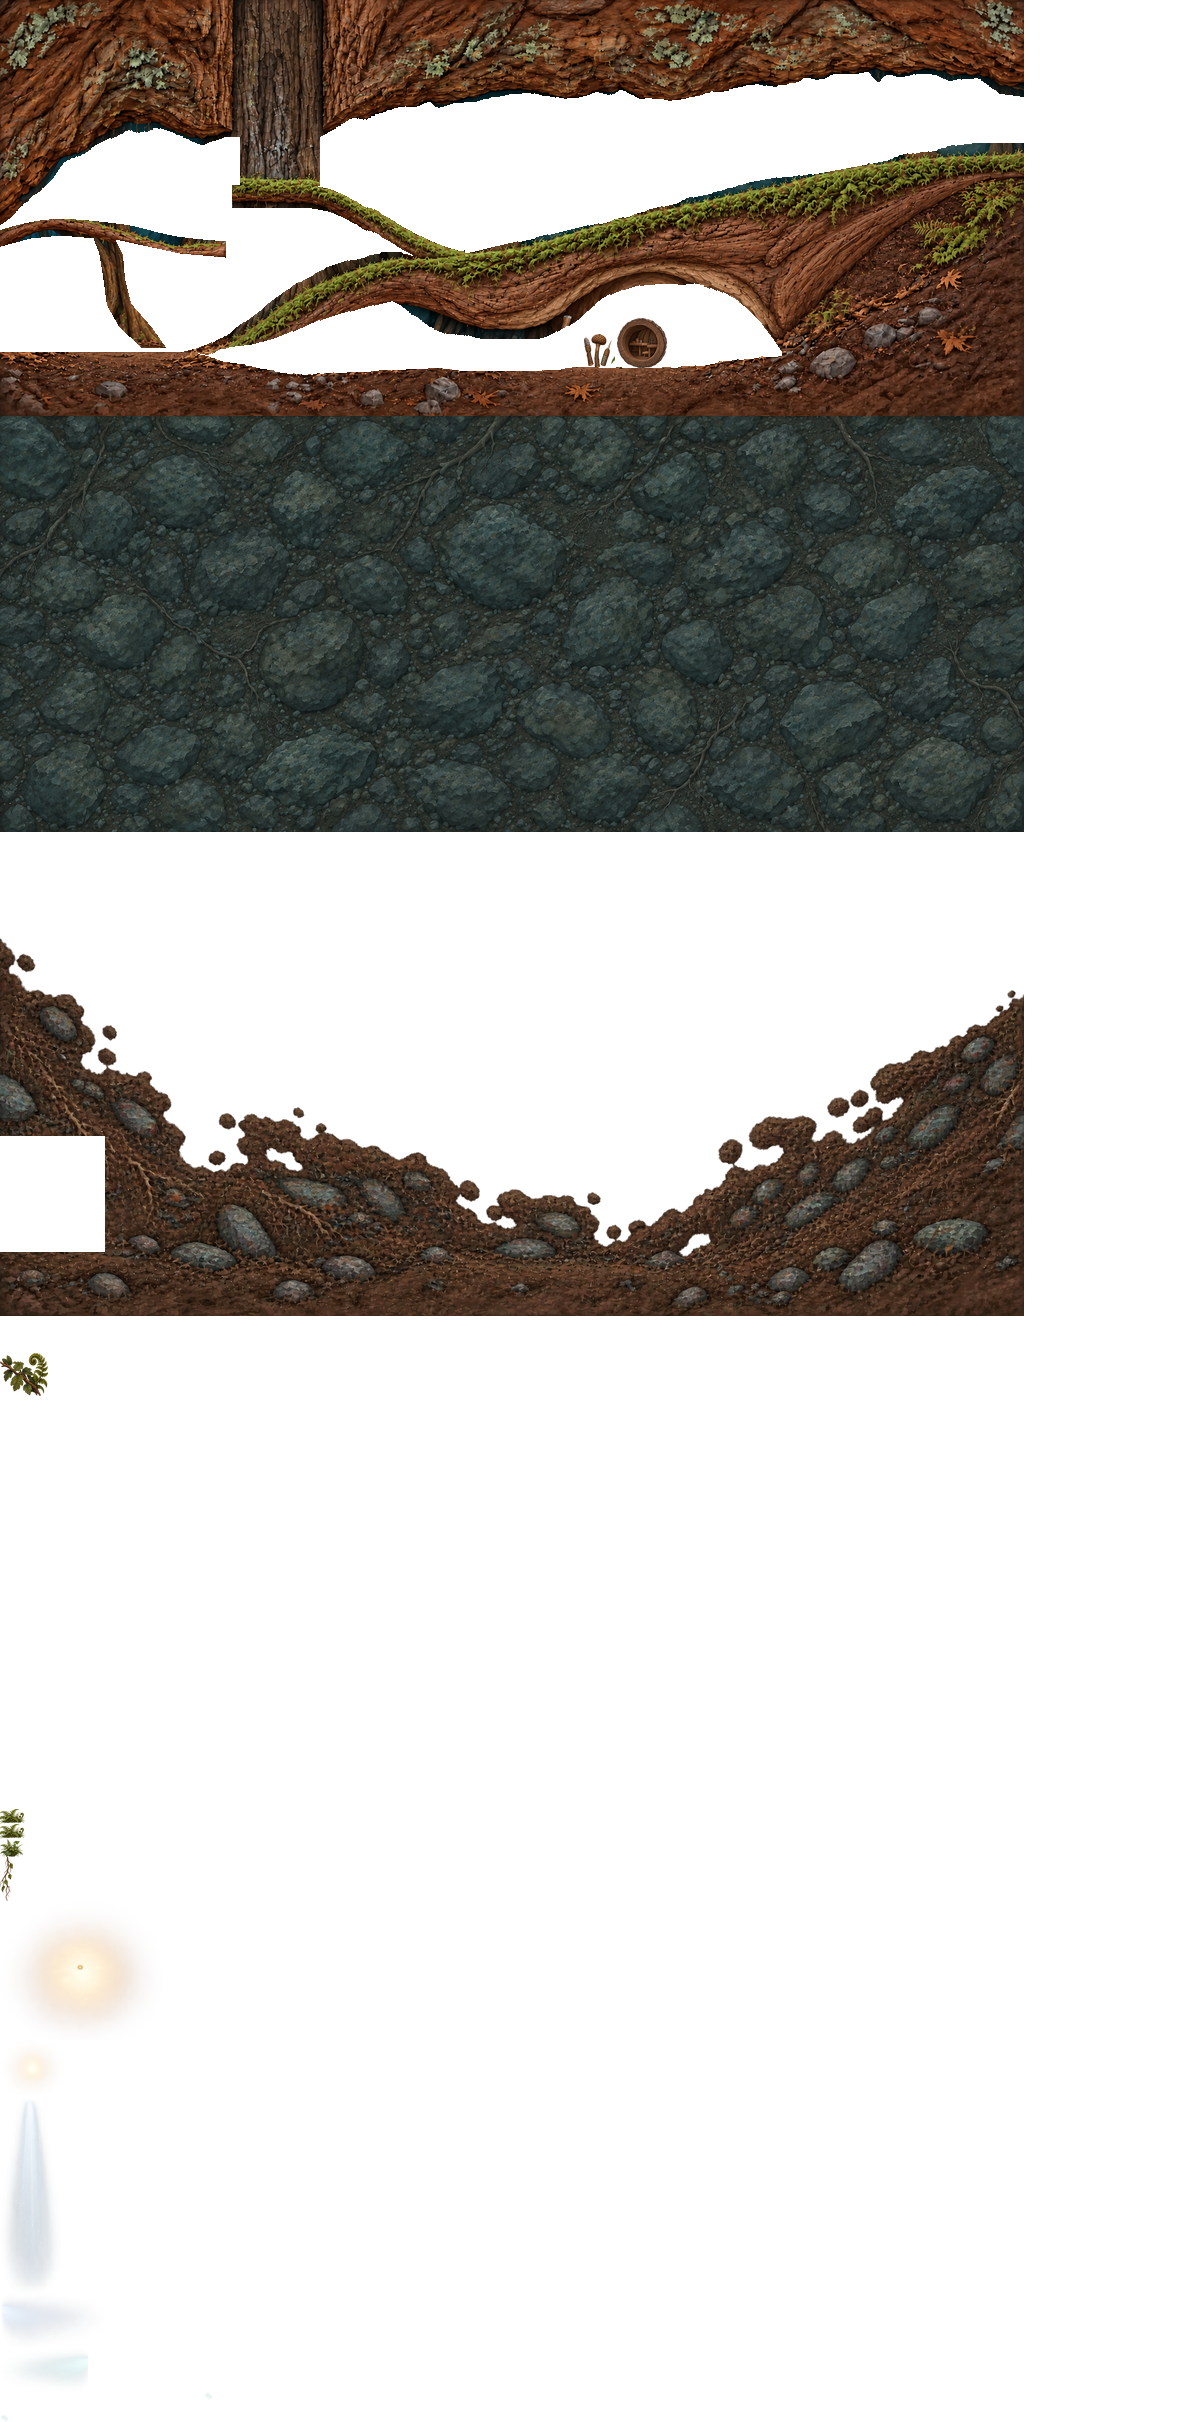
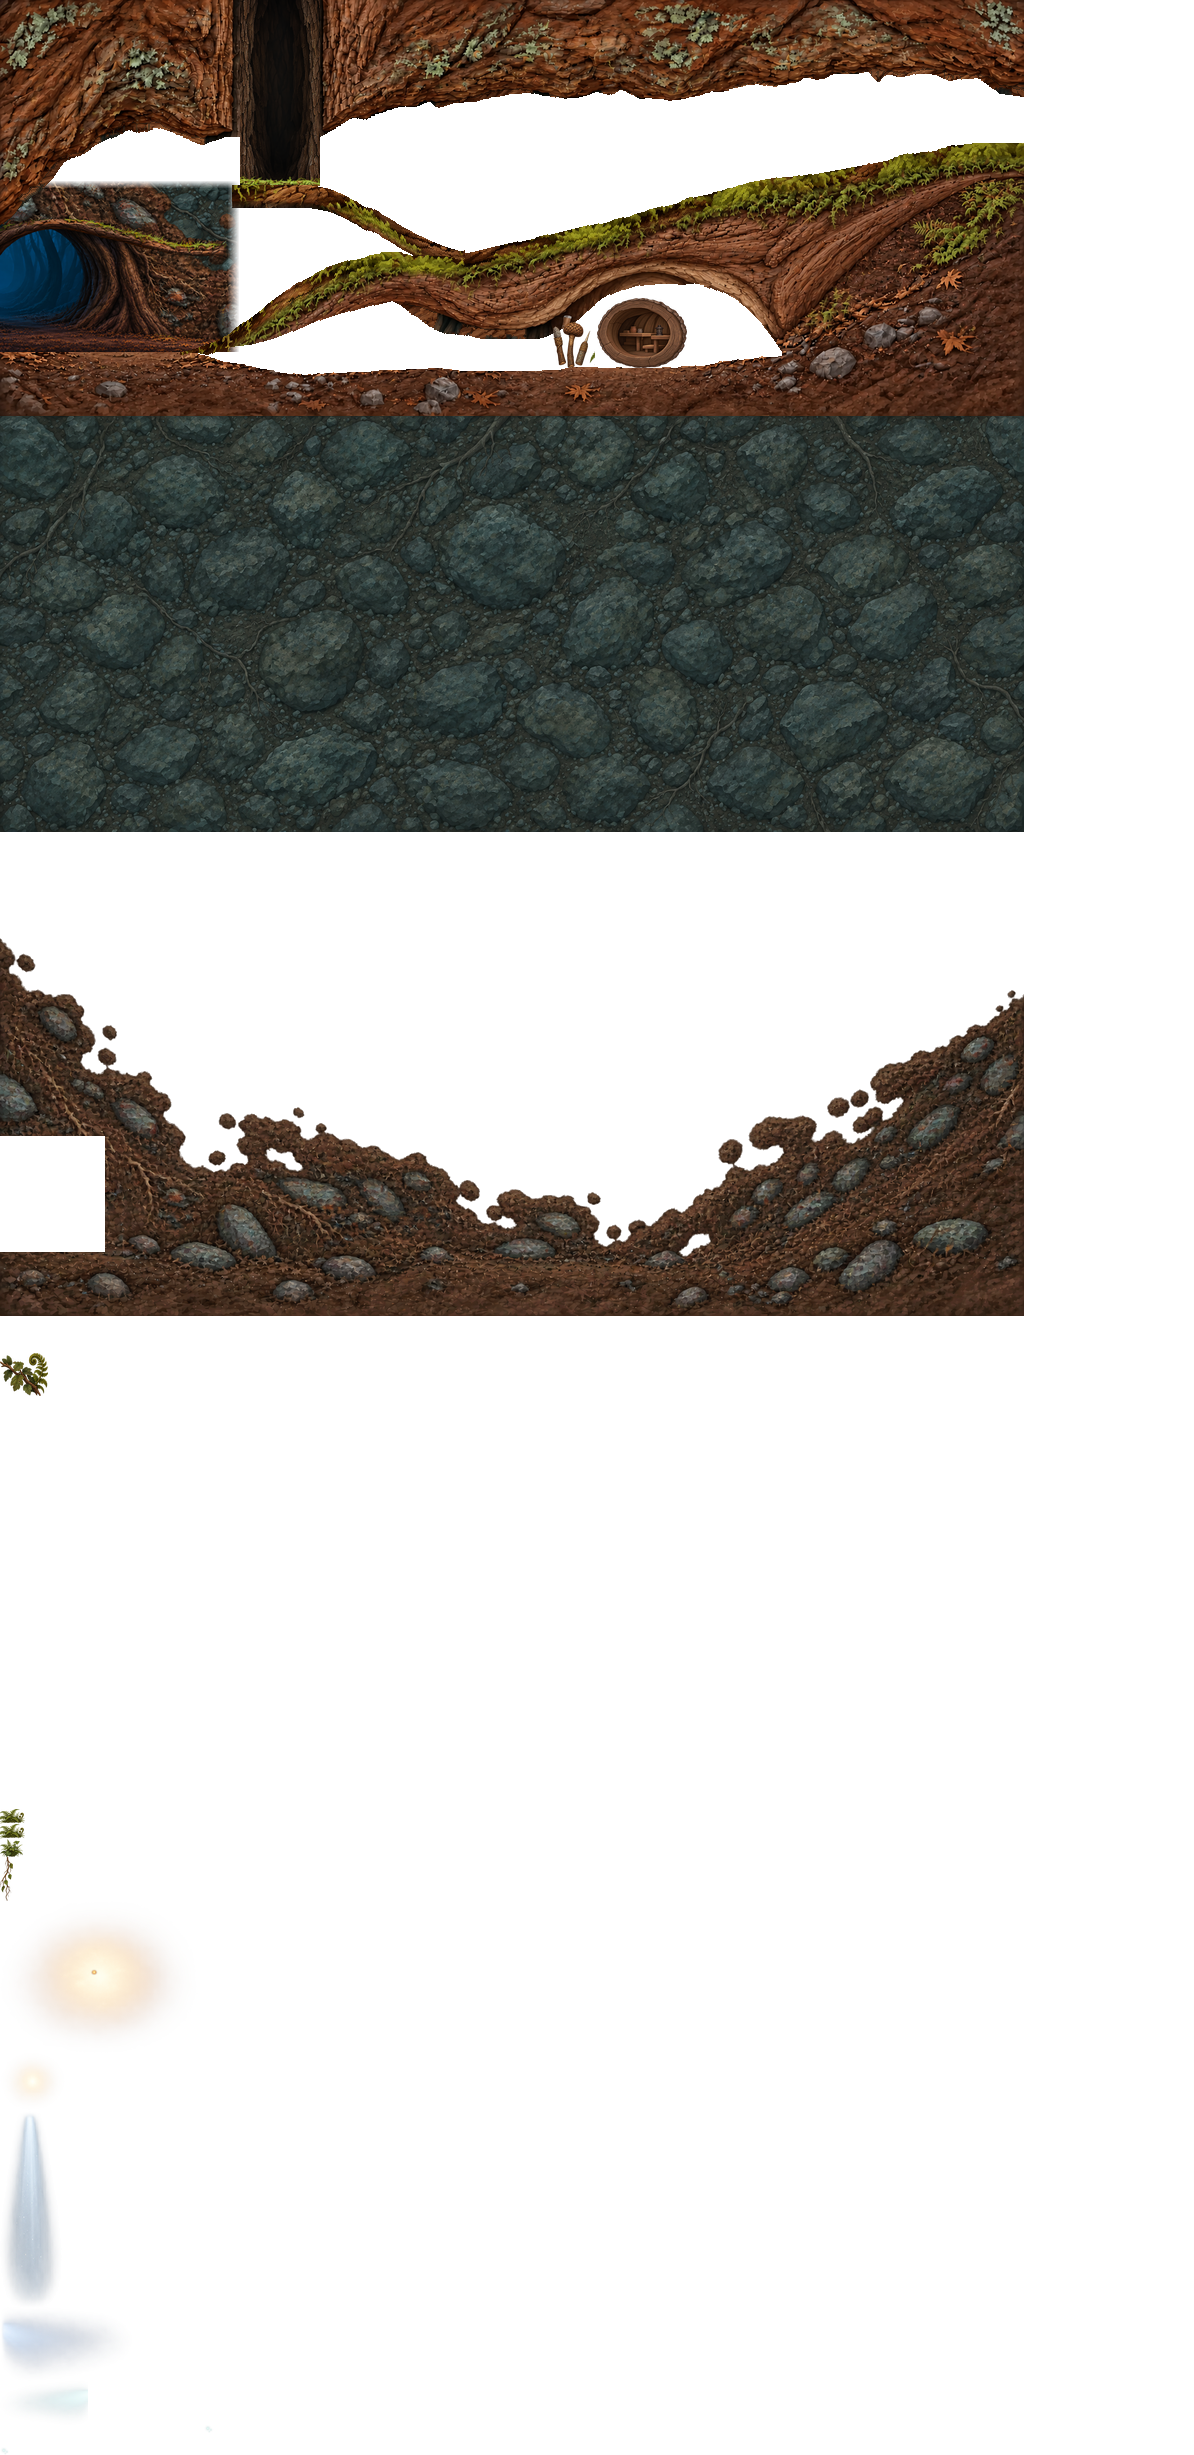
Under the oak, painted revision 02
The moss and bark reach the edges Phill walks on, the beetle's workshop is bigger, the shaft reads as open with its light coming down, and the way out to oakfall shows.

diff --git a/painted.html b/painted.html
@@ -11,8 +11,8 @@
 <style>
   /* Alegreya, the title menu's lettering, comes with the game (art/fonts, a Latin cut of it) so it looks the same offline
      or when Google Fonts can't load. SIL Open Font License, in Alegreya-OFL.txt next to it */
-  @font-face { font-family: 'Alegreya'; src: url(art/fonts/Alegreya.woff?v=1027r) format('woff'); font-weight: 400 900; font-style: normal; font-display: swap; }
-  @font-face { font-family: 'Alegreya'; src: url(art/fonts/Alegreya-Italic.woff?v=1027r) format('woff'); font-weight: 400 900; font-style: italic; font-display: swap; }
+  @font-face { font-family: 'Alegreya'; src: url(art/fonts/Alegreya.woff?v=1027s) format('woff'); font-weight: 400 900; font-style: normal; font-display: swap; }
+  @font-face { font-family: 'Alegreya'; src: url(art/fonts/Alegreya-Italic.woff?v=1027s) format('woff'); font-weight: 400 900; font-style: italic; font-display: swap; }
   /* one dark toy-room look for the whole page: the game screen, a strip of controls under it, a tuning drawer */
   :root {
     --bg: #12131c; --panel: #1d2030; --line: #343a55; --fg: #e8e6f0; --dim: #9aa0bb;
@@ -55,7 +55,7 @@
   .overlay .small { color: var(--dim); font-size: 13px; max-width: 46ch; margin-inline: auto; }
   /* the title card (10/17/2026, Moonlit Grime v5): the painting fills the start screen, the title's in it, so the
      words above it are kept for screen readers only and the start note sits low over the bottom of the picture */
-  #start { background: #07080e url(art/title/title_card.jpg?v=1027r) center / contain no-repeat; place-items: end end; text-align: right; }
+  #start { background: #07080e url(art/title/title_card.jpg?v=1027s) center / contain no-repeat; place-items: end end; text-align: right; }
   #start > div:not(#title) { margin: 0 max(2%, 10px) max(2%, 10px) 0; max-width: min(38ch, 46%); padding: 8px 14px 9px; border-radius: 8px; background: rgba(7, 8, 14, .74); }   /* (bottom right, over the water: Phill's in the middle) */
   #start h1, #start .sub { position: absolute; width: 1px; height: 1px; overflow: hidden; clip: rect(0 0 0 0); white-space: nowrap; }
   #start .small { font-size: 12px; margin-inline: 0; }
@@ -64,7 +64,7 @@
      bigger box in the middle with the picture blurred and dimmed behind it. Made to go with the painting
      (10/17/2026): night blue panels with a little paper grain, cream storybook lettering, a thin worn gold edge. The night
      blue also fills round the picture where the screen's a different shape */
-  body.titlemenu #start { cursor: default; background-color: #0a1323; background-image: url(art/title/title_card.jpg?v=1027r), radial-gradient(ellipse at 50% 35%, #13213a 0%, #0b1426 55%, #070c17 100%); background-size: contain, cover; background-repeat: no-repeat; background-position: center, 0 0; }
+  body.titlemenu #start { cursor: default; background-color: #0a1323; background-image: url(art/title/title_card.jpg?v=1027s), radial-gradient(ellipse at 50% 35%, #13213a 0%, #0b1426 55%, #070c17 100%); background-size: contain, cover; background-repeat: no-repeat; background-position: center, 0 0; }
   body.titlemenu #start > div:not(#title) { display: none; }
   #title { position: absolute; inset: 0; pointer-events: none; font-family: 'Alegreya', Georgia, 'Palatino Linotype', 'Book Antiqua', serif; --cream: #f2e7cd; --gold: #e4c07a; --muted: #b9ad92; --night: 11, 20, 38; }
   /* the picture's edges melt into the night blue */
@@ -228,11 +228,11 @@
   </div>
 </div>
 <!-- the game's code. Rooms aren't listed here: they load one at a time as Phill gets near them -->
-<script>window.BUILD = '1027r';   // bump on every update: every script, room file and picture is asked for with it, so a browser never keeps an old copy</script>
-<script src="art/phill/phill_frames.js?v=1027r"></script>
-<script src="art/crow/crow_frames.js?v=1027r"></script>
-<script src="art/bear/bear_frames.js?v=1027r"></script>
-<script src="rooms/index.js?v=1027r"></script>
+<script>window.BUILD = '1027s';   // bump on every update: every script, room file and picture is asked for with it, so a browser never keeps an old copy</script>
+<script src="art/phill/phill_frames.js?v=1027s"></script>
+<script src="art/crow/crow_frames.js?v=1027s"></script>
+<script src="art/bear/bear_frames.js?v=1027s"></script>
+<script src="rooms/index.js?v=1027s"></script>
 <script>
 // the painted rooms test (10/25/2026, Source/Rooms/painted_test.py): the same game, with Rootwood's six painted rooms
 // swapped in from rooms/rootwood/painted. This page's saves and settings are kept apart from the main game's
@@ -252,62 +252,62 @@
   }
 })();
 </script>
-<script src="rooms/map.js?v=1027r"></script>
-<script src="art/rootwood/rootwood_sprites.js?v=1027r"></script>
-<script src="art/rootwood/soldier_sprites.js?v=1027r"></script>
-<script src="art/pond/pond_sprites.js?v=1027r"></script>
-<script src="art/playground/playground_sprites.js?v=1027r"></script>
-<script src="art/oak/oak_sprites.js?v=1027r"></script>
-<script src="art/wildlife/wildlife.js?v=1027r"></script>
-<script src="art/hitmasks.js?v=1027r"></script>
-<script src="art/warren/warren_sprites.js?v=1027r"></script>
-<script src="art/greenhouse/greenhouse_sprites.js?v=1027r"></script>
-<script src="art/hive/hive_sprites.js?v=1027r"></script>
-<script src="js/config.js?v=1027r"></script>
-<script src="js/input.js?v=1027r"></script>
-<script src="js/audio.js?v=1027r"></script>
-<script src="js/assets.js?v=1027r"></script>
-<script src="js/fx.js?v=1027r"></script>
-<script src="js/world.js?v=1027r"></script>
-<script src="js/rooms.js?v=1027r"></script>
-<script src="js/player.js?v=1027r"></script>
-<script src="js/story.js?v=1027r"></script>
-<script src="js/idle.js?v=1027r"></script>
-<script src="js/scene.js?v=1027r"></script>
-<script src="js/scenes/opening.js?v=1027r"></script>
-<script src="js/font.js?v=1027r"></script>
-<script src="js/talk.js?v=1027r"></script>
-<script src="js/pins.js?v=1027r"></script>
-<script src="js/foes.js?v=1027r"></script>
-<script src="js/boss.js?v=1027r"></script>
-<script src="js/pond.js?v=1027r"></script>
-<script src="js/pond_bosses.js?v=1027r"></script>
-<script src="js/rootwood.js?v=1027r"></script>
-<script src="js/rootwood_foes2.js?v=1027r"></script>
-<script src="js/rootwood_plants.js?v=1027r"></script>
-<script src="js/oak.js?v=1027r"></script>
-<script src="js/wildlife.js?v=1027r"></script>
-<script src="js/oak_bosses.js?v=1027r"></script>
-<script src="js/playground.js?v=1027r"></script>
-<script src="js/playground_bosses.js?v=1027r"></script>
-<script src="js/moves2.js?v=1027r"></script>
-<script src="js/map.js?v=1027r"></script>
-<script src="js/scenes/rootwood.js?v=1027r"></script>
-<script src="js/camera.js?v=1027r"></script>
-<script src="js/render.js?v=1027r"></script>
-<script src="js/warren.js?v=1027r"></script>
-<script src="js/greenhouse.js?v=1027r"></script>
-<script src="js/greenhouse_foes.js?v=1027r"></script>
-<script src="js/greenhouse_boss.js?v=1027r"></script>
-<script src="js/hive.js?v=1027r"></script>
-<script src="js/hive_foes.js?v=1027r"></script>
-<script src="js/hive_bosses.js?v=1027r"></script>
-<script src="js/bear.js?v=1027r"></script>
-<script src="js/ui.js?v=1027r"></script>
-<script src="js/main.js?v=1027r"></script>
-<script src="js/touch.js?v=1027r"></script>
-<script src="js/areas.js?v=1027r"></script>
-<script src="js/debug.js?v=1027r"></script>
-<script src="js/menu.js?v=1027r"></script>
+<script src="rooms/map.js?v=1027s"></script>
+<script src="art/rootwood/rootwood_sprites.js?v=1027s"></script>
+<script src="art/rootwood/soldier_sprites.js?v=1027s"></script>
+<script src="art/pond/pond_sprites.js?v=1027s"></script>
+<script src="art/playground/playground_sprites.js?v=1027s"></script>
+<script src="art/oak/oak_sprites.js?v=1027s"></script>
+<script src="art/wildlife/wildlife.js?v=1027s"></script>
+<script src="art/hitmasks.js?v=1027s"></script>
+<script src="art/warren/warren_sprites.js?v=1027s"></script>
+<script src="art/greenhouse/greenhouse_sprites.js?v=1027s"></script>
+<script src="art/hive/hive_sprites.js?v=1027s"></script>
+<script src="js/config.js?v=1027s"></script>
+<script src="js/input.js?v=1027s"></script>
+<script src="js/audio.js?v=1027s"></script>
+<script src="js/assets.js?v=1027s"></script>
+<script src="js/fx.js?v=1027s"></script>
+<script src="js/world.js?v=1027s"></script>
+<script src="js/rooms.js?v=1027s"></script>
+<script src="js/player.js?v=1027s"></script>
+<script src="js/story.js?v=1027s"></script>
+<script src="js/idle.js?v=1027s"></script>
+<script src="js/scene.js?v=1027s"></script>
+<script src="js/scenes/opening.js?v=1027s"></script>
+<script src="js/font.js?v=1027s"></script>
+<script src="js/talk.js?v=1027s"></script>
+<script src="js/pins.js?v=1027s"></script>
+<script src="js/foes.js?v=1027s"></script>
+<script src="js/boss.js?v=1027s"></script>
+<script src="js/pond.js?v=1027s"></script>
+<script src="js/pond_bosses.js?v=1027s"></script>
+<script src="js/rootwood.js?v=1027s"></script>
+<script src="js/rootwood_foes2.js?v=1027s"></script>
+<script src="js/rootwood_plants.js?v=1027s"></script>
+<script src="js/oak.js?v=1027s"></script>
+<script src="js/wildlife.js?v=1027s"></script>
+<script src="js/oak_bosses.js?v=1027s"></script>
+<script src="js/playground.js?v=1027s"></script>
+<script src="js/playground_bosses.js?v=1027s"></script>
+<script src="js/moves2.js?v=1027s"></script>
+<script src="js/map.js?v=1027s"></script>
+<script src="js/scenes/rootwood.js?v=1027s"></script>
+<script src="js/camera.js?v=1027s"></script>
+<script src="js/render.js?v=1027s"></script>
+<script src="js/warren.js?v=1027s"></script>
+<script src="js/greenhouse.js?v=1027s"></script>
+<script src="js/greenhouse_foes.js?v=1027s"></script>
+<script src="js/greenhouse_boss.js?v=1027s"></script>
+<script src="js/hive.js?v=1027s"></script>
+<script src="js/hive_foes.js?v=1027s"></script>
+<script src="js/hive_bosses.js?v=1027s"></script>
+<script src="js/bear.js?v=1027s"></script>
+<script src="js/ui.js?v=1027s"></script>
+<script src="js/main.js?v=1027s"></script>
+<script src="js/touch.js?v=1027s"></script>
+<script src="js/areas.js?v=1027s"></script>
+<script src="js/debug.js?v=1027s"></script>
+<script src="js/menu.js?v=1027s"></script>
 </body>
 </html>

diff --git a/rooms/rootwood/painted/roots.js b/rooms/rootwood/painted/roots.js
@@ -61,36 +61,36 @@ ROOM({
    "piece_glow_0": [
     0,
     1901,
-    164,
-    139
+    198,
+    152
    ],
    "piece_glow_1": [
     0,
-    2040,
+    2053,
     65,
     57
    ],
    "piece_glow_2": [
     0,
-    2097,
+    2110,
     62,
-    196
+    197
    ],
    "piece_glow_3": [
     0,
-    2293,
-    106,
-    55
+    2307,
+    132,
+    74
    ],
    "piece_glow_4": [
     0,
-    2348,
+    2381,
     88,
     44
    ],
    "piece_glow_5": [
     0,
-    2392,
+    2425,
     214,
     30
    ]
@@ -135,10 +135,10 @@ ROOM({
     44
    ],
    "glow_0": [
-    571,
-    277,
-    164,
-    139
+    563,
+    262,
+    198,
+    152
    ],
    "glow_1": [
     111,
@@ -148,15 +148,15 @@ ROOM({
    ],
    "glow_2": [
     249,
-    8,
+    7,
     62,
-    196
+    197
    ],
    "glow_3": [
-    1,
-    276,
-    106,
-    55
+    3,
+    252,
+    132,
+    74
    ],
    "glow_4": [
     936,
@@ -278,9 +278,9 @@ ROOM({
   "a": 0.6,
   "lights": [
    [
-    649,
-    343,
-    100,
+    657,
+    333,
+    112,
     1.0
    ],
    [
@@ -296,10 +296,10 @@ ROOM({
     0.85
    ],
    [
-    18,
-    319,
-    85,
-    0.7
+    8,
+    278,
+    105,
+    0.85
    ],
    [
     1009,
